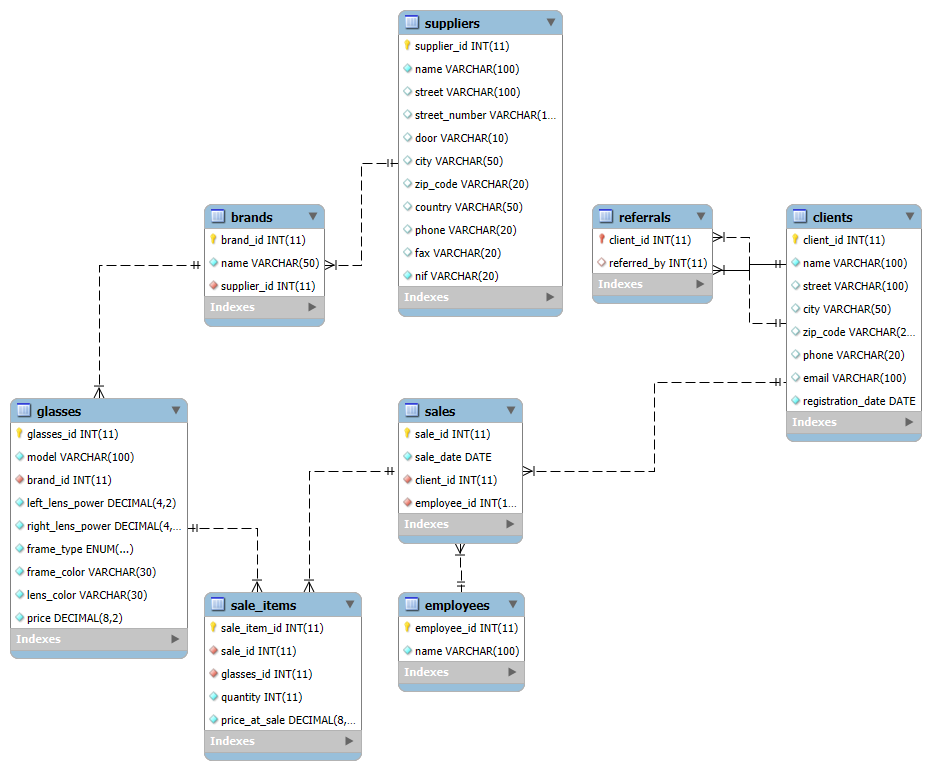
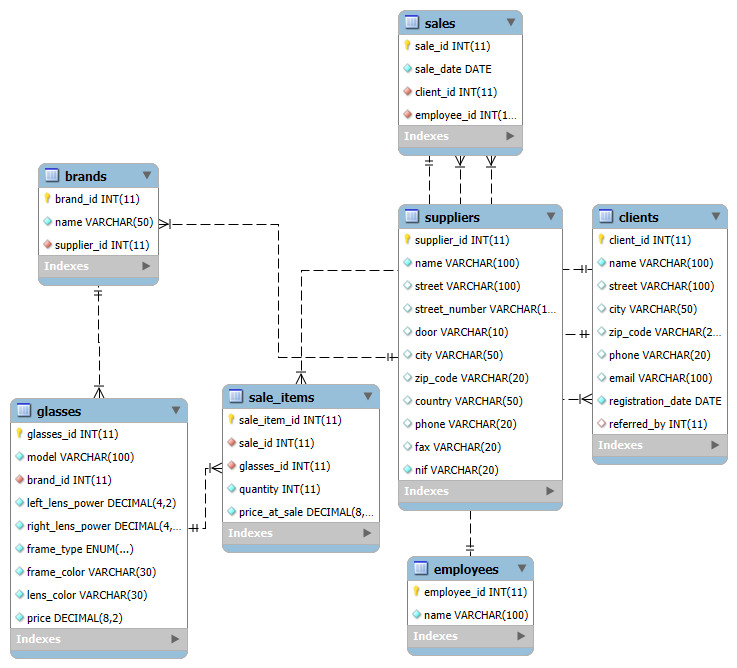
Actualización del modelo con campo de recomendación integrado en la tabla de clientes

Changed region(s): [[0.0, 0.0, 0.9986, 0.988], [0.0312, 0.2395, 0.3745, 0.4491]]

diff --git a/S202/Nivel1/Ejercicio1/README.md b/S202/Nivel1/Ejercicio1/README.md
@@ -13,8 +13,7 @@ The database, named `optics`, is composed of the following tables that fulfill a
 - `suppliers`: Stores supplier information (name, address, phone, fax, NIF)
 - `brands`: Centralizes glasses brands with their supplier relationships
 - `glasses`: Contains glasses specifications (model, prescription powers, frame details, price)
-- `clients`: Holds client data including registration date and contact information
-- `referrals`: Manages client recommendations (ensuring one recommender per client)
+- `clients`: Holds client data including registration date, contact information, and who recommended the client (if any, via the field referred_by)
 - `employees`: Tracks sales staff
 - `sales`: Records transaction headers (date, client, employee)
 - `sale_items`: Enables multiple items per sale with historical pricing
@@ -27,8 +26,8 @@ The database, named `optics`, is composed of the following tables that fulfill a
    - Ensures each brand works with exactly one supplier
 
 2. Client Referral System:
-   - `PRIMARY KEY` on `referrals.client_id`
-   - Self-referential relationship in `referrals`
+   - The field `referred_by` in `clients` stores the client who recommended them (if any)
+   - Foreign key from `clients.referred_by` to `clients.client_id`
    - Guarantees maximum one recommender per client
 
 3. Sales Management:
